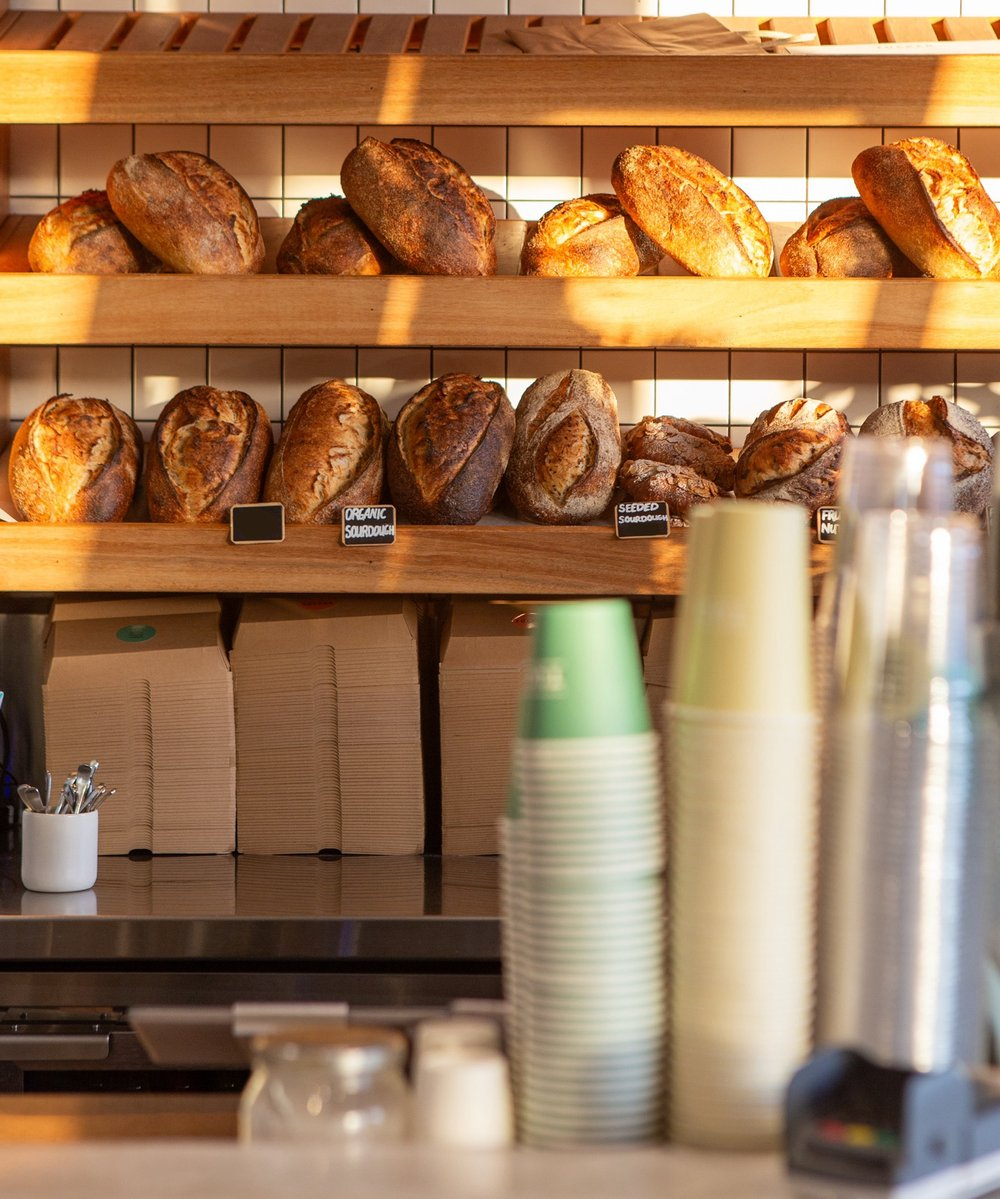
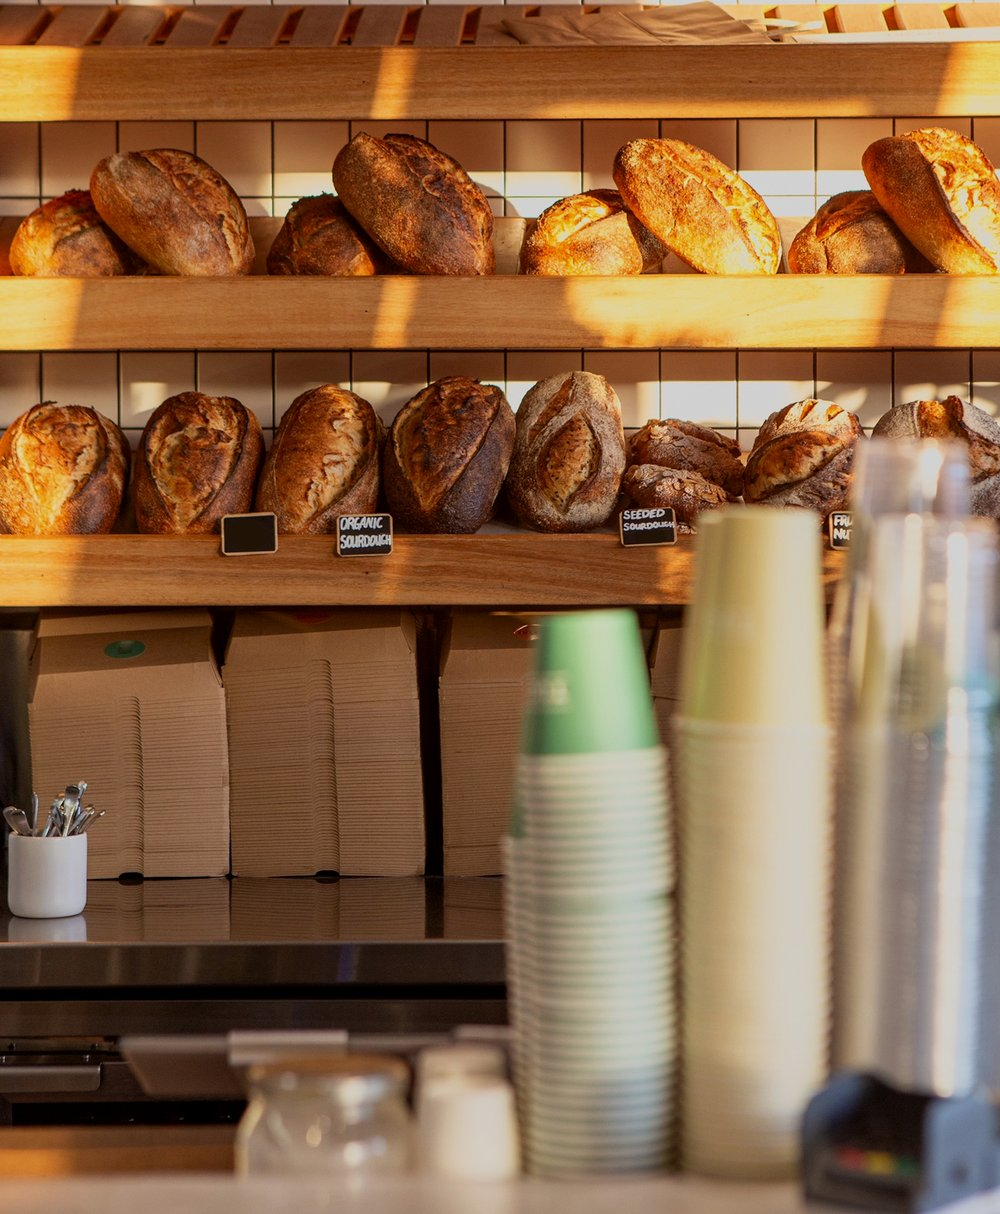
Hide swap buttons on mobile, fix bread exposure and tilt

diff --git a/index.html b/index.html
@@ -514,7 +514,7 @@ body::before{content:"";position:fixed;inset:0 0 auto;height:env(safe-area-inset
   .rv-on [data-rv]{opacity:1;transform:none}
   .slide img,.slide.on img{transform:none}
 }
-.band--sage{background:var(--sage)}.band--sage .read .m,.band--sage .read small{color:var(--ink)}.hd .logo .mark{background:#fff;transition:height .45s var(--ease),background-color .45s var(--ease)}.hd.solid .logo .mark,.hd.open .logo .mark{background:var(--sage)}@media(max-width:899px){.fcol--visit{order:-1}.fcol--visit>summary{pointer-events:none}.fcol--visit>summary::after{display:none}}.partners{padding-block:36px 40px!important;border-bottom:0!important}.partners .plogos{grid-template-columns:repeat(4,minmax(0,1fr))!important;gap:22px 18px!important}.partners .plogo{width:100%;max-width:96px;height:40px}.partners .plogo--fuel{height:44px}.partners .plogo--nya{height:30px}.partners .plogo--loma{height:28px}.partners .plogo--mm{height:34px}.partners .plogo--bb{height:30px}@media(min-width:700px){.partners .plogos{grid-template-columns:repeat(7,minmax(0,1fr))!important;gap:20px 24px!important}}@media(min-width:900px){.partners{grid-template-columns:200px 1fr!important;gap:32px!important;padding-block:44px!important}.partners .plogo{max-width:120px;height:48px}.partners .plogo--fuel{height:52px}.partners .plogo--nya{height:36px}.partners .plogo--loma{height:32px}.partners .plogo--mm{height:42px}.partners .plogo--bb{height:36px}}.ft{margin-top:0!important}@media(min-width:900px){#order+*{margin-top:0!important}}.sh{padding-top:48px!important}@media(min-width:900px){.sh{padding-top:72px!important}}#reading .sh{padding-top:0!important;padding-bottom:36px!important}.hero .cap{left:0;right:0;margin-inline:auto;max-width:760px;text-align:center;top:50%;bottom:auto!important;transform:translateY(-46%)}.hero .cap p.d{margin-left:auto;margin-right:auto}.hero .cap .eyebrow{text-align:center}.hero .slide::after{background:radial-gradient(ellipse 62% 55% at 50% 54%,rgba(10,16,12,.62) 0%,rgba(10,16,12,.38) 50%,rgba(10,16,12,.16) 100%),linear-gradient(to top,rgba(10,16,12,.4) 0%,rgba(10,16,12,0) 35%)}.hero .cap h1,.hero .cap h2{text-shadow:0 2px 24px rgba(0,0,0,.35)}.hero .cap p.d,.hero .cap .eyebrow{text-shadow:0 1px 12px rgba(0,0,0,.5);opacity:1}.hero .scrim{display:none}.hero .cap h1,.hero .cap h2{font-weight:700;letter-spacing:-.02em;line-height:1}.hero .cap .eyebrow{font-weight:600}.hero .cap p.d{font-weight:500}@media(max-width:899px){.hero{height:100vh;height:100svh}}#dishes h2,#drinks .sh h2{max-width:720px}#dishes h2{margin-inline:auto}@media(max-width:760px){#storyImg{object-position:50% 12%}}.reads{align-items:flex-start}.read{display:flex;flex-direction:column;justify-content:flex-start;align-self:flex-start}.read .box{width:100%}</style>
+.band--sage{background:var(--sage)}.band--sage .read .m,.band--sage .read small{color:var(--ink)}.hd .logo .mark{background:#fff;transition:height .45s var(--ease),background-color .45s var(--ease)}.hd.solid .logo .mark,.hd.open .logo .mark{background:var(--sage)}@media(max-width:899px){.fcol--visit{order:-1}.fcol--visit>summary{pointer-events:none}.fcol--visit>summary::after{display:none}}.partners{padding-block:36px 40px!important;border-bottom:0!important}.partners .plogos{grid-template-columns:repeat(4,minmax(0,1fr))!important;gap:22px 18px!important}.partners .plogo{width:100%;max-width:96px;height:40px}.partners .plogo--fuel{height:44px}.partners .plogo--nya{height:30px}.partners .plogo--loma{height:28px}.partners .plogo--mm{height:34px}.partners .plogo--bb{height:30px}@media(min-width:700px){.partners .plogos{grid-template-columns:repeat(7,minmax(0,1fr))!important;gap:20px 24px!important}}@media(min-width:900px){.partners{grid-template-columns:200px 1fr!important;gap:32px!important;padding-block:44px!important}.partners .plogo{max-width:120px;height:48px}.partners .plogo--fuel{height:52px}.partners .plogo--nya{height:36px}.partners .plogo--loma{height:32px}.partners .plogo--mm{height:42px}.partners .plogo--bb{height:36px}}.ft{margin-top:0!important}@media(min-width:900px){#order+*{margin-top:0!important}}.sh{padding-top:48px!important}@media(min-width:900px){.sh{padding-top:72px!important}}#reading .sh{padding-top:0!important;padding-bottom:36px!important}.hero .cap{left:0;right:0;margin-inline:auto;max-width:760px;text-align:center;top:50%;bottom:auto!important;transform:translateY(-46%)}.hero .cap p.d{margin-left:auto;margin-right:auto}.hero .cap .eyebrow{text-align:center}.hero .slide::after{background:radial-gradient(ellipse 62% 55% at 50% 54%,rgba(10,16,12,.62) 0%,rgba(10,16,12,.38) 50%,rgba(10,16,12,.16) 100%),linear-gradient(to top,rgba(10,16,12,.4) 0%,rgba(10,16,12,0) 35%)}.hero .cap h1,.hero .cap h2{text-shadow:0 2px 24px rgba(0,0,0,.35)}.hero .cap p.d,.hero .cap .eyebrow{text-shadow:0 1px 12px rgba(0,0,0,.5);opacity:1}.hero .scrim{display:none}.hero .cap h1,.hero .cap h2{font-weight:700;letter-spacing:-.02em;line-height:1}.hero .cap .eyebrow{font-weight:600}.hero .cap p.d{font-weight:500}@media(max-width:899px){.hero{height:100vh;height:100svh}}#dishes h2,#drinks .sh h2{max-width:720px}#dishes h2{margin-inline:auto}@media(max-width:760px){#storyImg{object-position:50% 12%}}@media(max-width:899px){.tile .swap,.cab__it>button{display:none!important}}.reads{align-items:flex-start}.read{display:flex;flex-direction:column;justify-content:flex-start;align-self:flex-start}.read .box{width:100%}</style>
 </head>
 <body>
 
